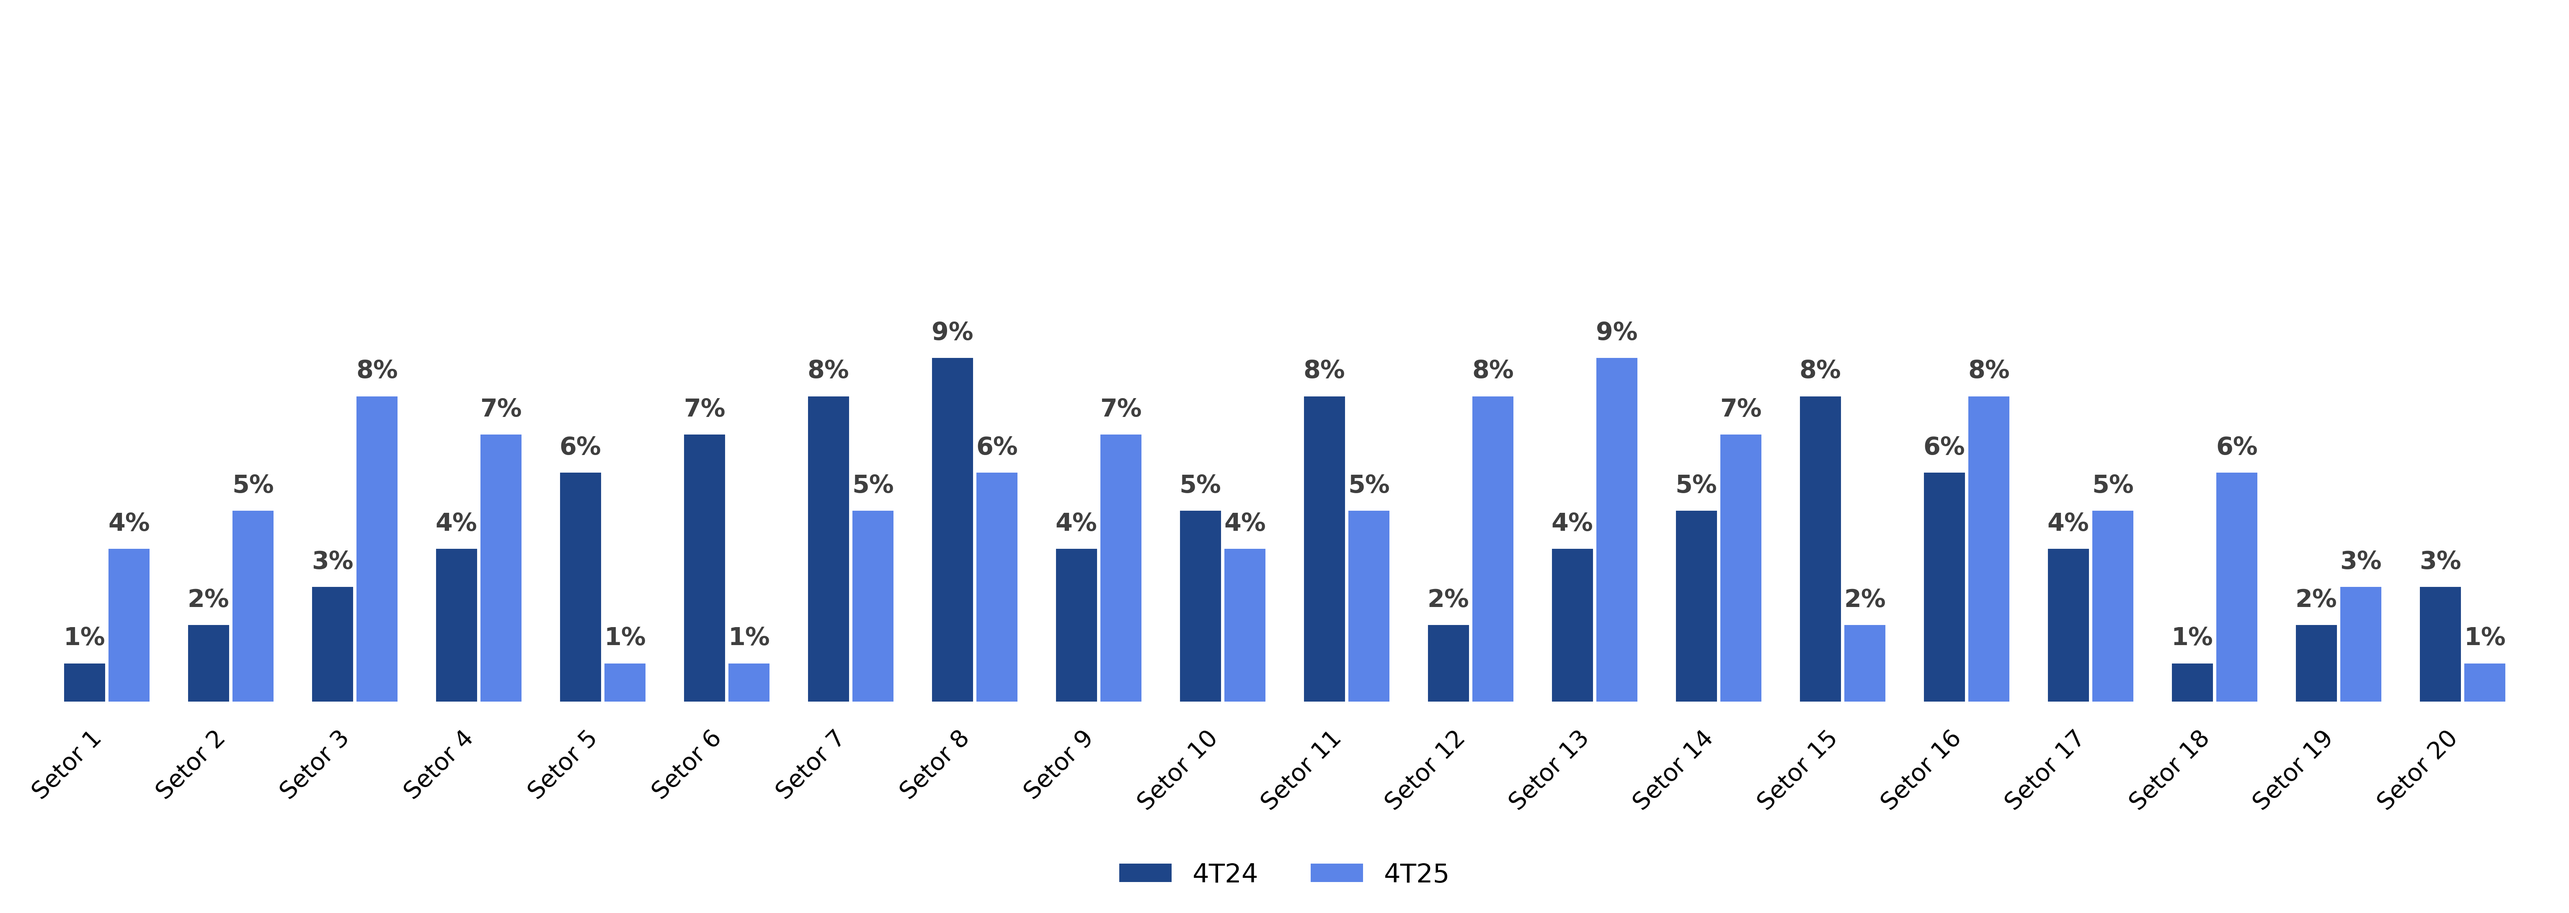
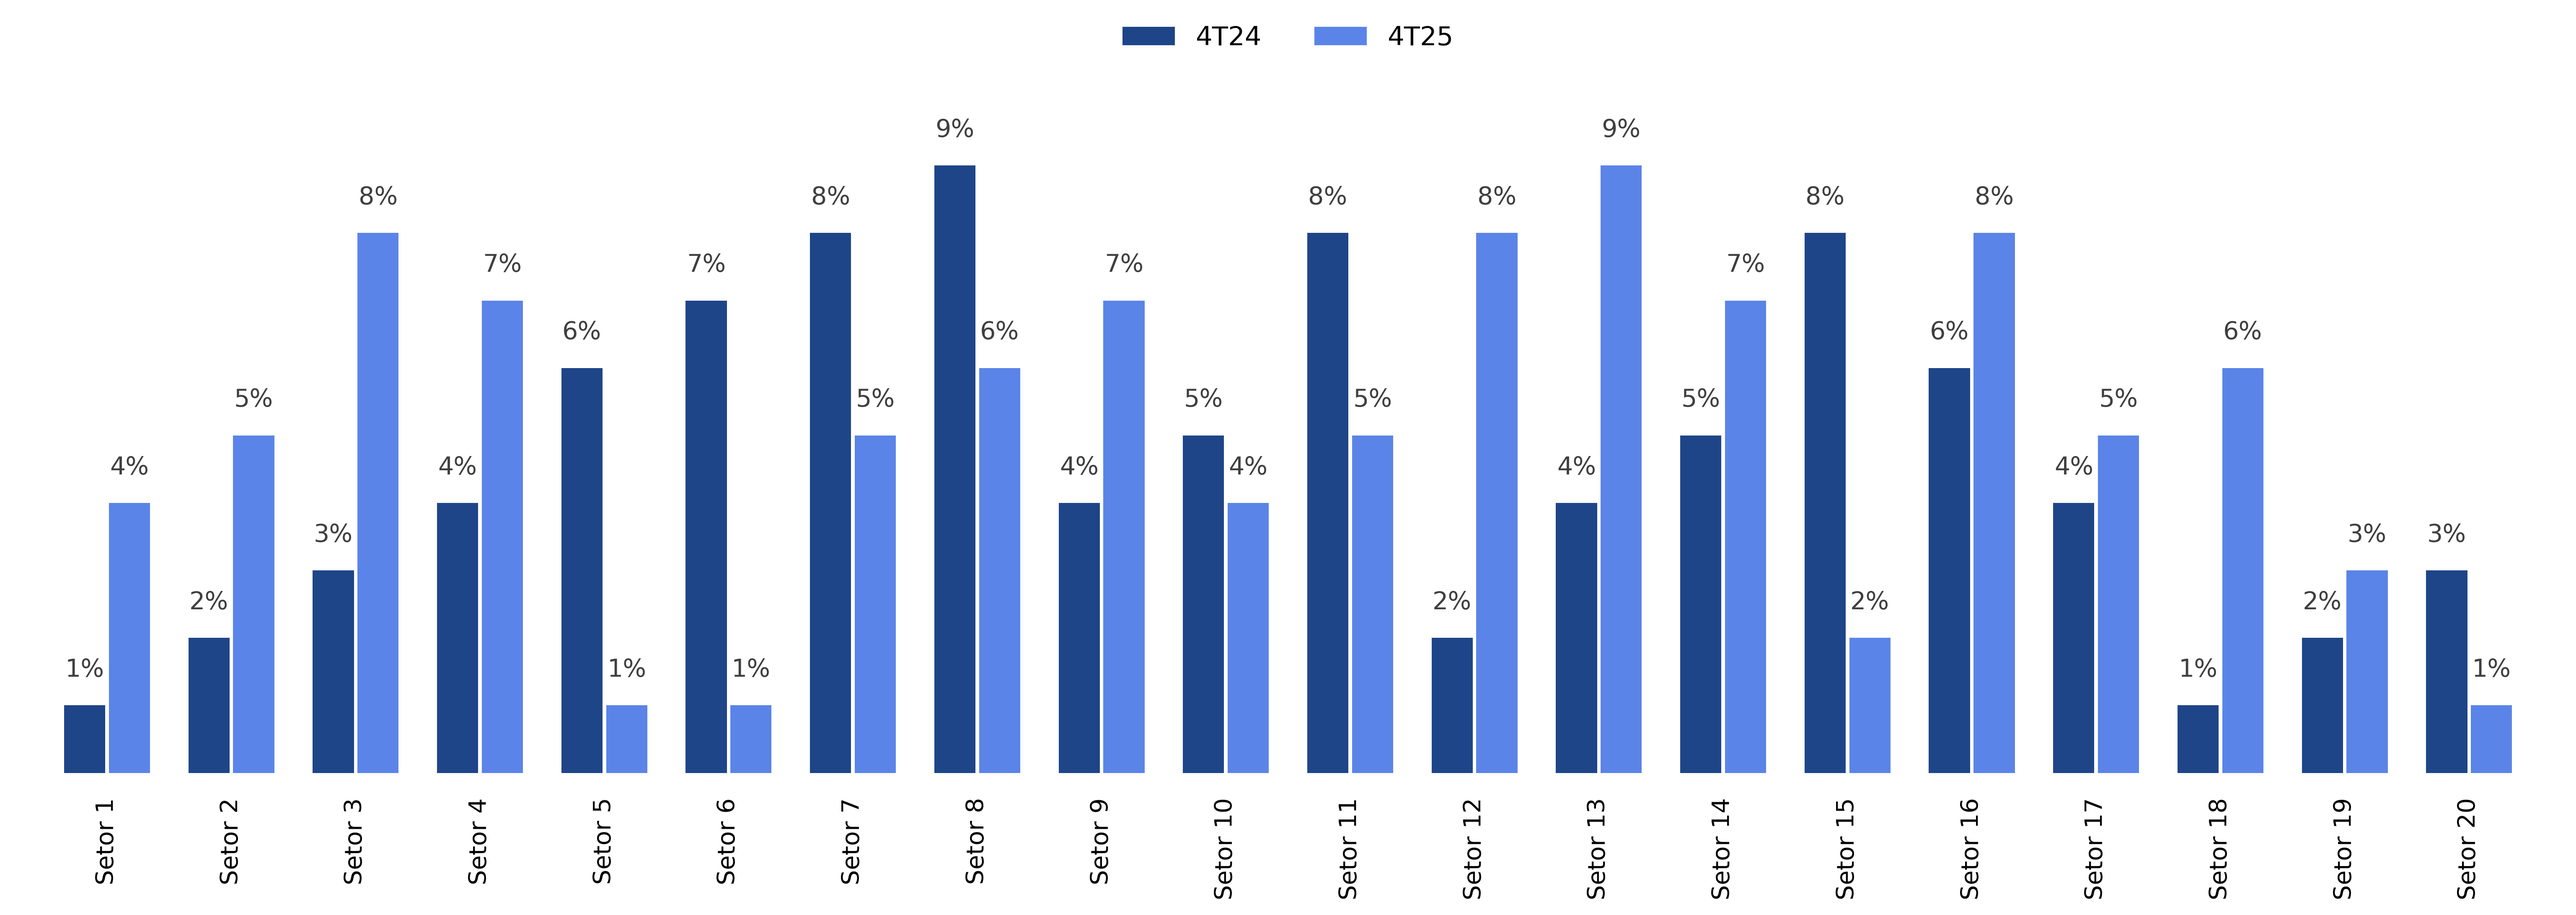
fine adjustments on slide 21

diff --git a/utils/slide21_charts.py b/utils/slide21_charts.py
@@ -411,14 +411,20 @@ def _plot_comparative_bars(
                 ha="center",
                 va="bottom",
                 fontsize=9.4 * SLIDE21_COMPARATIVE_FONT_SCALE,
-                fontweight="bold",
+                fontweight="normal",
                 color="#3f3f3f",
                 zorder=4,
                 clip_on=False,
             )
 
     ax.set_xticks(x)
-    ax.set_xticklabels(categories, rotation=45, ha="right", fontsize=9.2 * SLIDE21_COMPARATIVE_FONT_SCALE)
+    ax.set_xticklabels(
+        categories,
+        rotation=90,
+        ha="center",
+        va="top",
+        fontsize=9.2 * SLIDE21_COMPARATIVE_FONT_SCALE,
+    )
     ax.tick_params(axis="x", bottom=False, pad=6)
     ax.set_yticks([])
     for spine in ("left", "right", "top", "bottom"):
@@ -428,14 +434,14 @@ def _plot_comparative_bars(
     ax.legend(
         [bars_left[0], bars_right[0]],
         [label_left, label_right],
-        loc="upper center",
-        bbox_to_anchor=(0.5, -0.20),
+        loc="lower center",
+        bbox_to_anchor=(0.5, 1.02),
         ncol=2,
         frameon=False,
         fontsize=10.0 * SLIDE21_COMPARATIVE_FONT_SCALE,
     )
 
-    ylim_top = max(max_val * 2.0, max_val + label_gap + max(max_val * 0.06, 0.8))
+    ylim_top = max_val + label_gap + max(max_val * 0.06, 0.8)
     ax.set_ylim(0.0, ylim_top)
 
     fig.tight_layout(pad=0.35)
